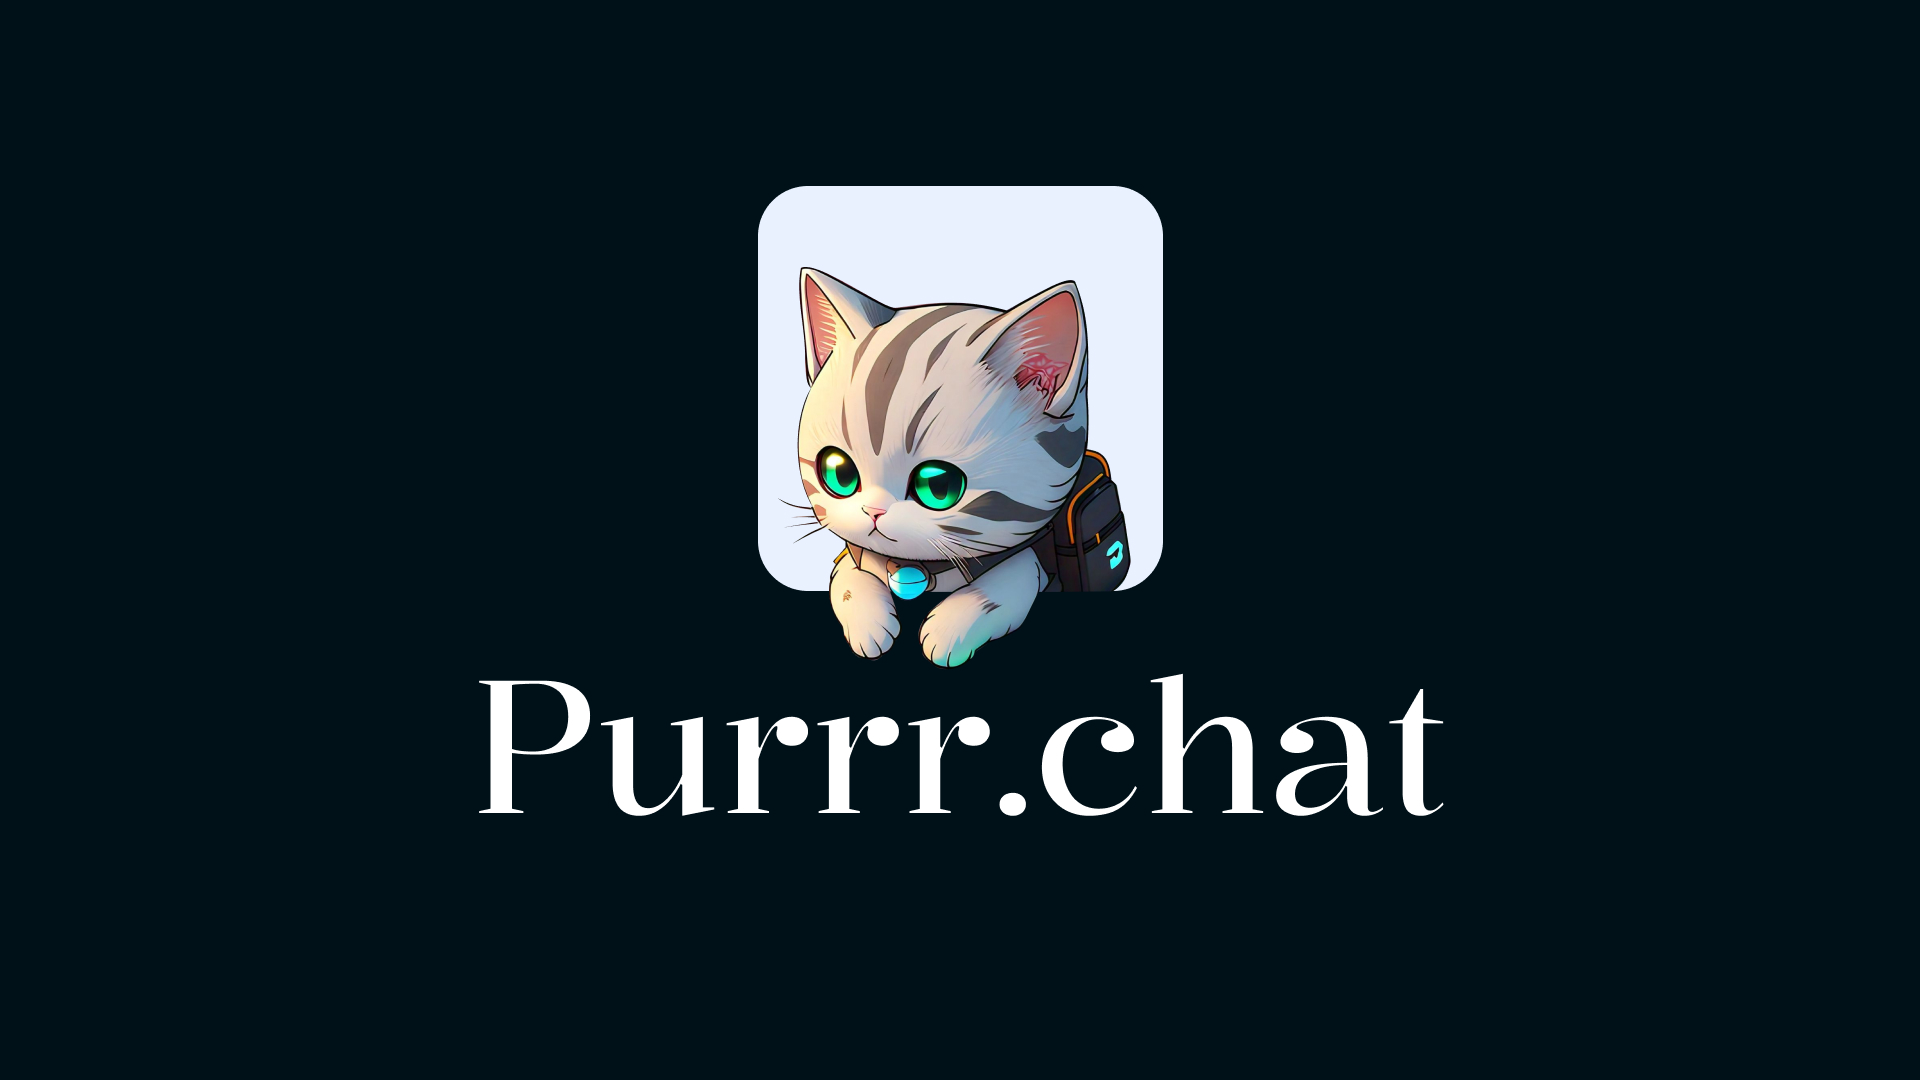
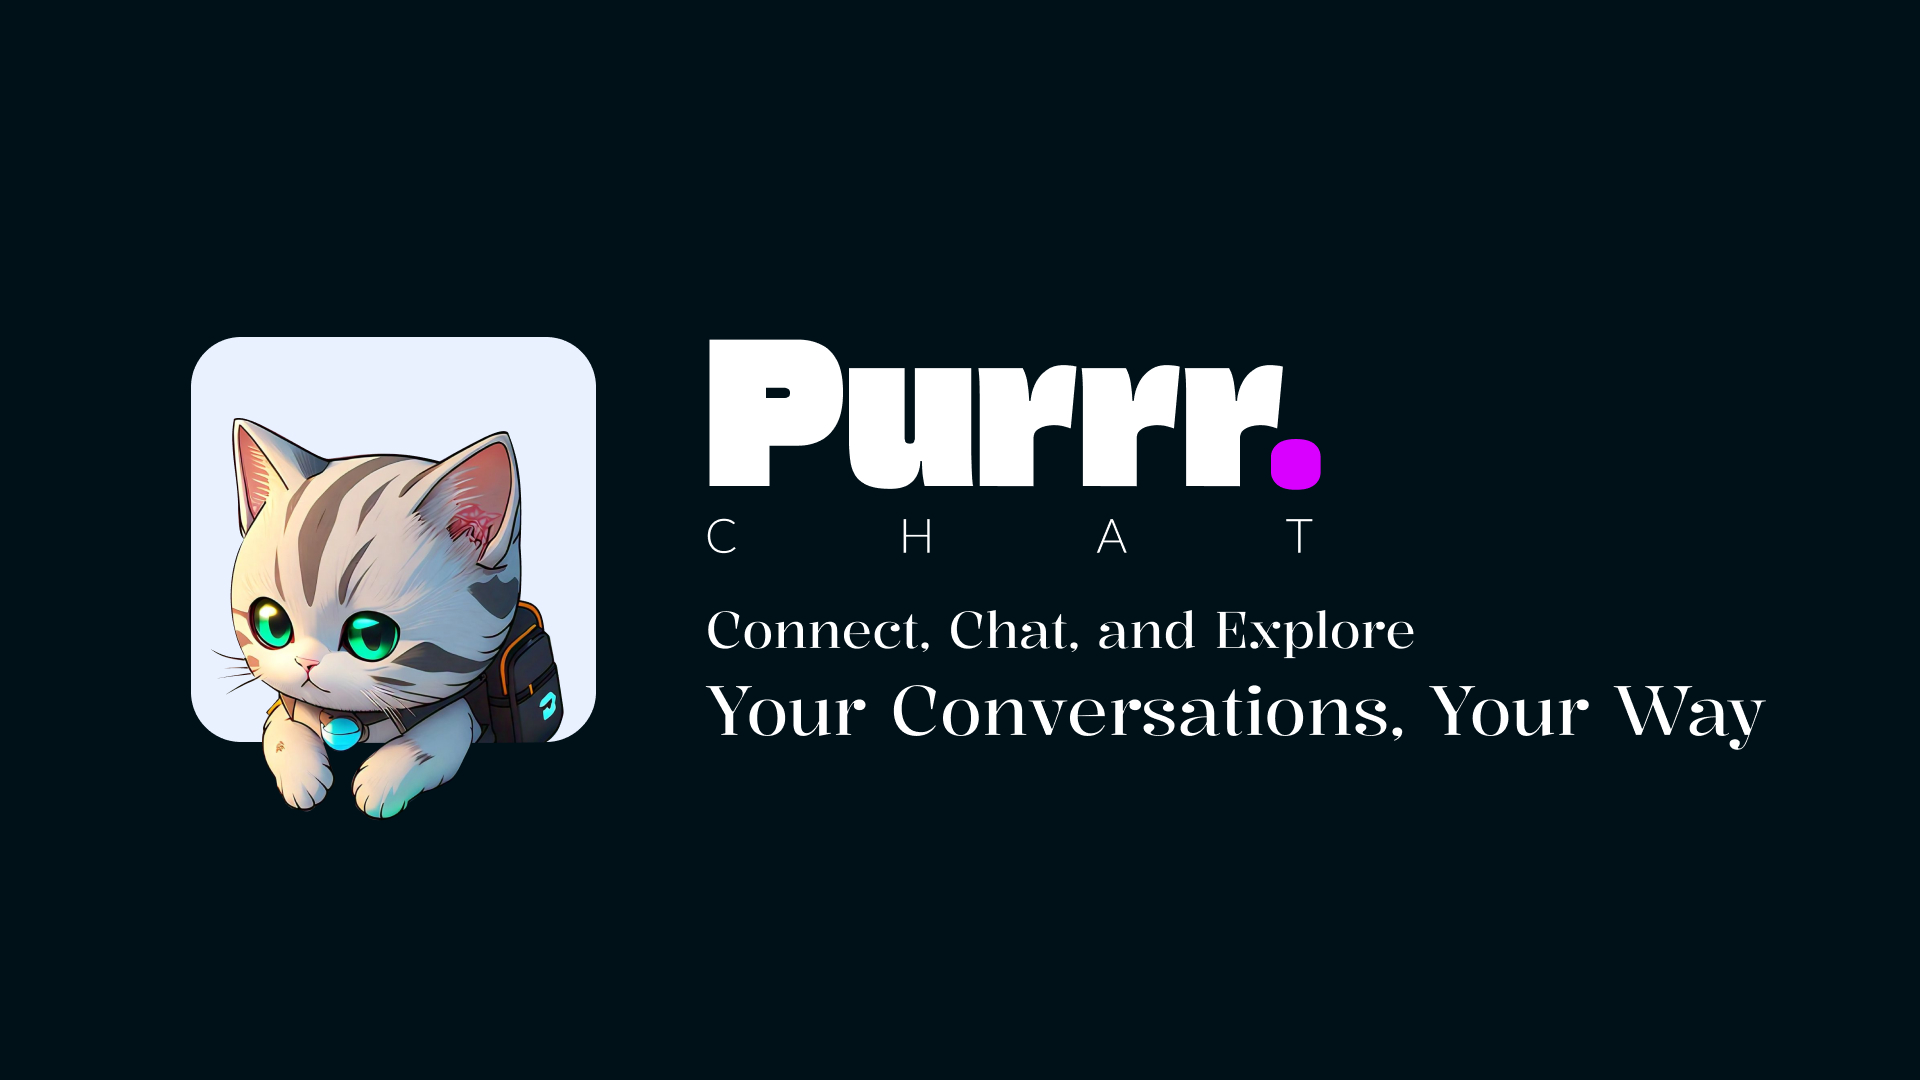
chore: Update Metadata and README

Changed region(s): [[0.0938, 0.1528, 0.9375, 0.7639]]

diff --git a/README.md b/README.md
@@ -1,69 +1,59 @@
-# Purrr.chat Frontend
+# Purrr.chat (Frontend) 🐾
+<p align="center"><img src="https://purrr.chat/icon.png" width="200" height="200" alt="purrr.chat Logo"></p>
 
-This repository contains the frontend code for **Purrr.chat**, a random chat application that allows users to connect with each other for text and image-based communication.
+Welcome to **Purrr.chat**, the place where random chats happen, and friendships (or fun conversations) are just a click away! Whether you want to share a thought or an image, Purrr.chat lets you connect with another online user for a random chat experience.
 
-## Features
-- **Random Chat**: Users are randomly paired with another online user for a chat.
-- **Image Sharing**: Share images during the chat.
-- **Real-Time Messaging**: Communication happens in real-time using WebSockets via `socket.io-client`.
-- **Next.js**: The frontend is built with the powerful and scalable Next.js framework.
-- **Tailwind CSS**: Responsive and customizable UI using Tailwind CSS.
+## What’s Purrr.chat all about? 😺
+- **Random Pairing**: You never know who you’ll meet! Get paired up with someone random and start chatting instantly.
+- **Text & Image Fun**: Got a cool meme or a selfie? Share images during the chat along with your messages.
+- **Real-Time Messaging**: We’re all about speed! Your messages appear in real-time, so no one’s waiting around.
+- **Super Easy to Use**: Built with Next.js, this thing is smooth, fast, and modern. It just works (and looks good doing it)!
+- **Tailwind Magic**: Our design is sleek and responsive, whether you're chatting on your laptop or your phone.
 
-## Technologies Used
-- **Next.js**: v14.2.12
-- **React**: ^18
-- **WebSockets**: Handled by `socket.io-client` (v4.7.5)
-- **Tailwind CSS**: For UI styling
-- **TypeScript**: For type safety and better development experience.
+## Technologies Used ⚙
+Okay, techy folks, here’s what’s under the hood:
+- **Next.js**: v14.2.12 – Fast, scalable, and perfect for our frontend needs.
+- **React**: ^18 – Making UI updates smooth as butter.
+- **WebSockets**: Powered by `socket.io-client` (v4.7.5) for real-time messaging.
+- **Tailwind CSS**: Makes the UI look amazing without breaking a sweat.
+- **TypeScript**: Because typing makes everything safer and better!
 
-## Related Repositories
-- [Purrr.chat Backend](https://github.com/yourusername/purrr-backend)
+## How to Get Started 🛠
 
-## Installation
-
-1. Clone the repository:
+1. **Clone the repo** and grab a cup of coffee (or tea, we don’t judge):
     ```bash
-    git clone https://github.com/yourusername/purrr-frontend.git
+    git clone https://github.com/suyious/purrr.frontend.git
     cd purrr-frontend
     ```
 
-2. Install dependencies:
+2. **Install the magic beans** (aka dependencies):
     ```bash
     npm install
     ```
 
-3. Run the development server:
+3. **Launch the fun**:
     ```bash
     npm run dev
     ```
 
-4. Open your browser and navigate to:
+4. **Open your browser and start chatting**:
     ```
     http://localhost:3000
     ```
 
-## Scripts
+## Want to Help Make Purrr.chat Purrfect? 🐾
+We love contributions! Want to add a feature, fix a bug, or just make things even cooler? We’re all ears!
 
-- `npm run dev`: Run the application in development mode.
-- `npm run build`: Build the application for production.
-- `npm start`: Start the application in production mode.
-- `npm run lint`: Run the linter for the codebase.
+### How to Contribute:
+1. **Fork it!** Clone your own version of the repo and tinker away.
+2. **Branch out** with your changes. Be creative, we’re open to cool ideas!
+3. **Submit a pull request** and wait for the magic to happen (aka, a review from us).
+4. **Enjoy** the knowledge that you’ve helped make Purrr.chat even more awesome. 🥳
 
-## Contributing
-Thank you for contributing to this open-source project! We strive to create a safe and collaborative environment at Purrr.chat. Please follow these contribution guidelines:
+Oh, and don’t forget to check out the open issues—there’s always something fun to work on.
 
-### Contribution Rules
-1. **Fork the Repository**: Start by forking the repository before making any changes. 
-2. **Create a New Branch**: Use the issue title as the name to create a new branch and start implementing your changes.
-3. **Push Your Changes**: Once your changes are ready, push them to your fork, create a pull request, and wait for a review.
-4. **Review Process**: We will review your changes, and if accepted, they will be merged into the master branch.
-5. **Stay Updated**: Before starting new work, pull the latest changes from the master branch and merge them into your local branch to avoid conflicts.
+## Other Cool Stuff 😎
+- **Backend Magic**: All the techy stuff happens [here](https://github.com/suyious/purrr.backend).
 
-### Working on a Task (Important)
-1. **Open Issues**: Please open issues for new features in the issues section.
-2. **Request Assignment**: If you wish to work on an existing issue, request to be assigned to it.
-3. **No Unassigned Work**: If you start working on an issue without being assigned, we may not prioritize reviewing your changes, and they may be rejected in most cases.
-4. **Assigned Work**: Once assigned, you can start working and must follow the contribution guidelines to avoid merge conflicts.
-
-## License
-This project is licensed under the ISC License.
+## License 📝
+ISC License. Feel free to play around with the code—just give us a little nod when you do. 😊
